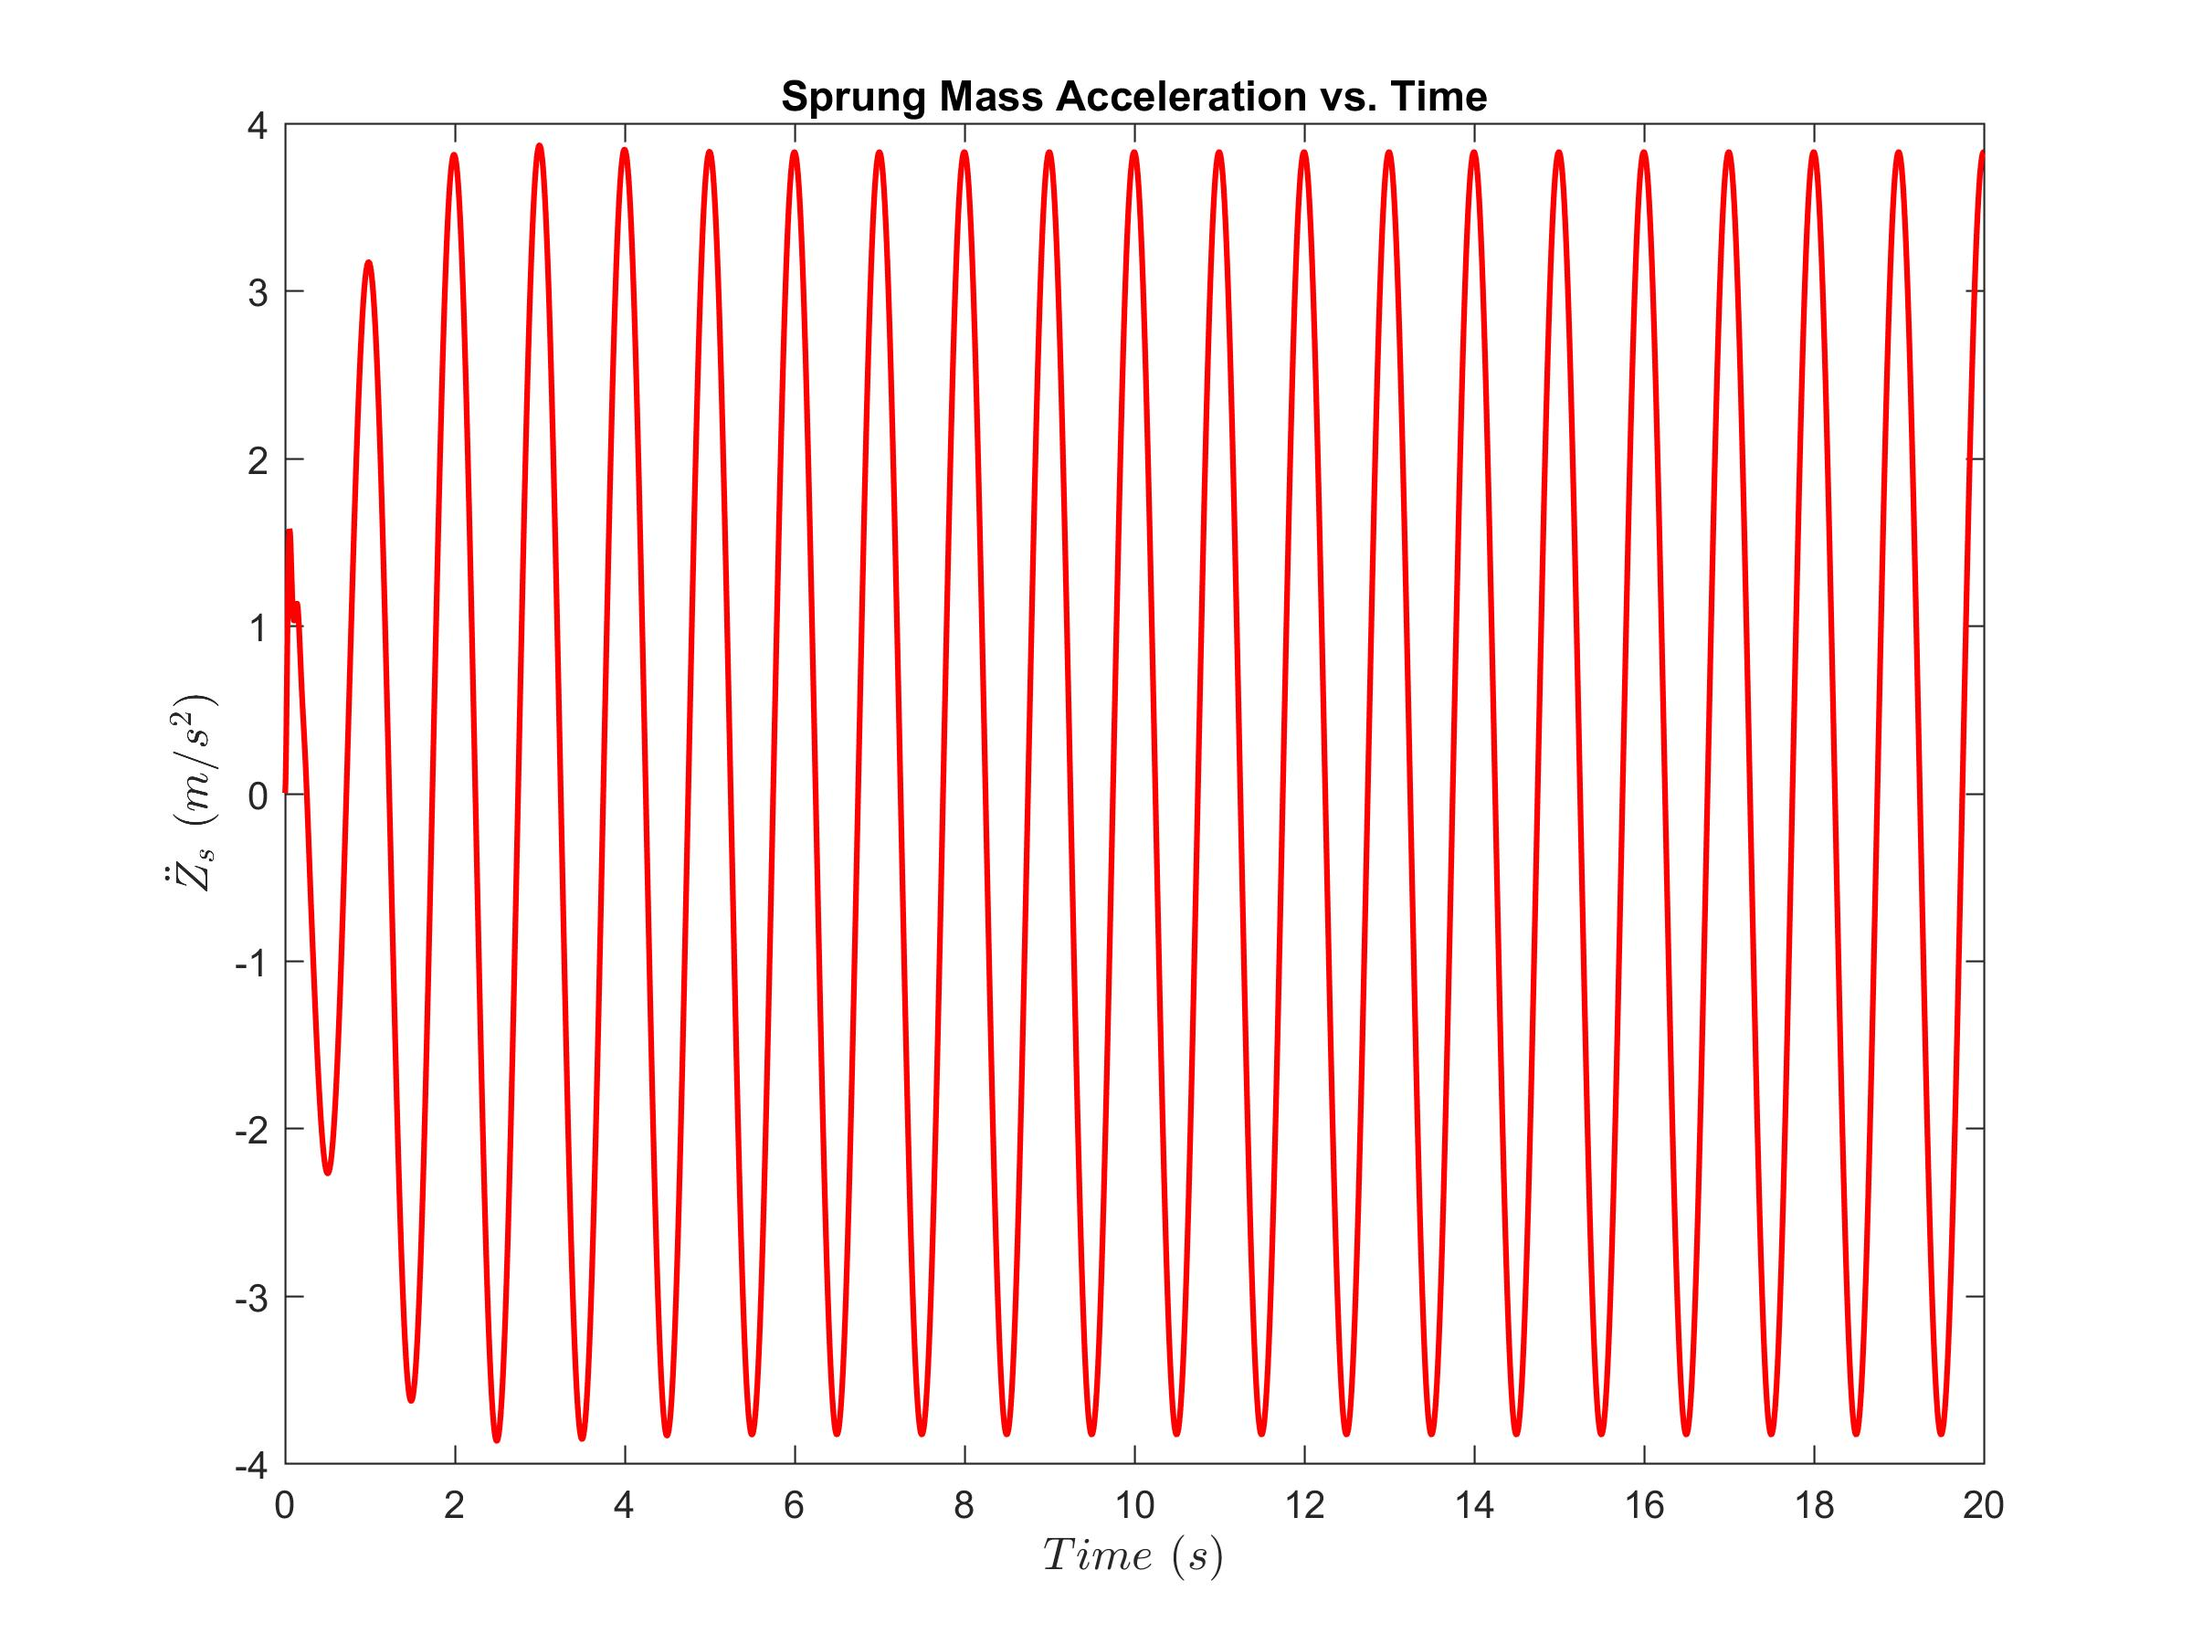
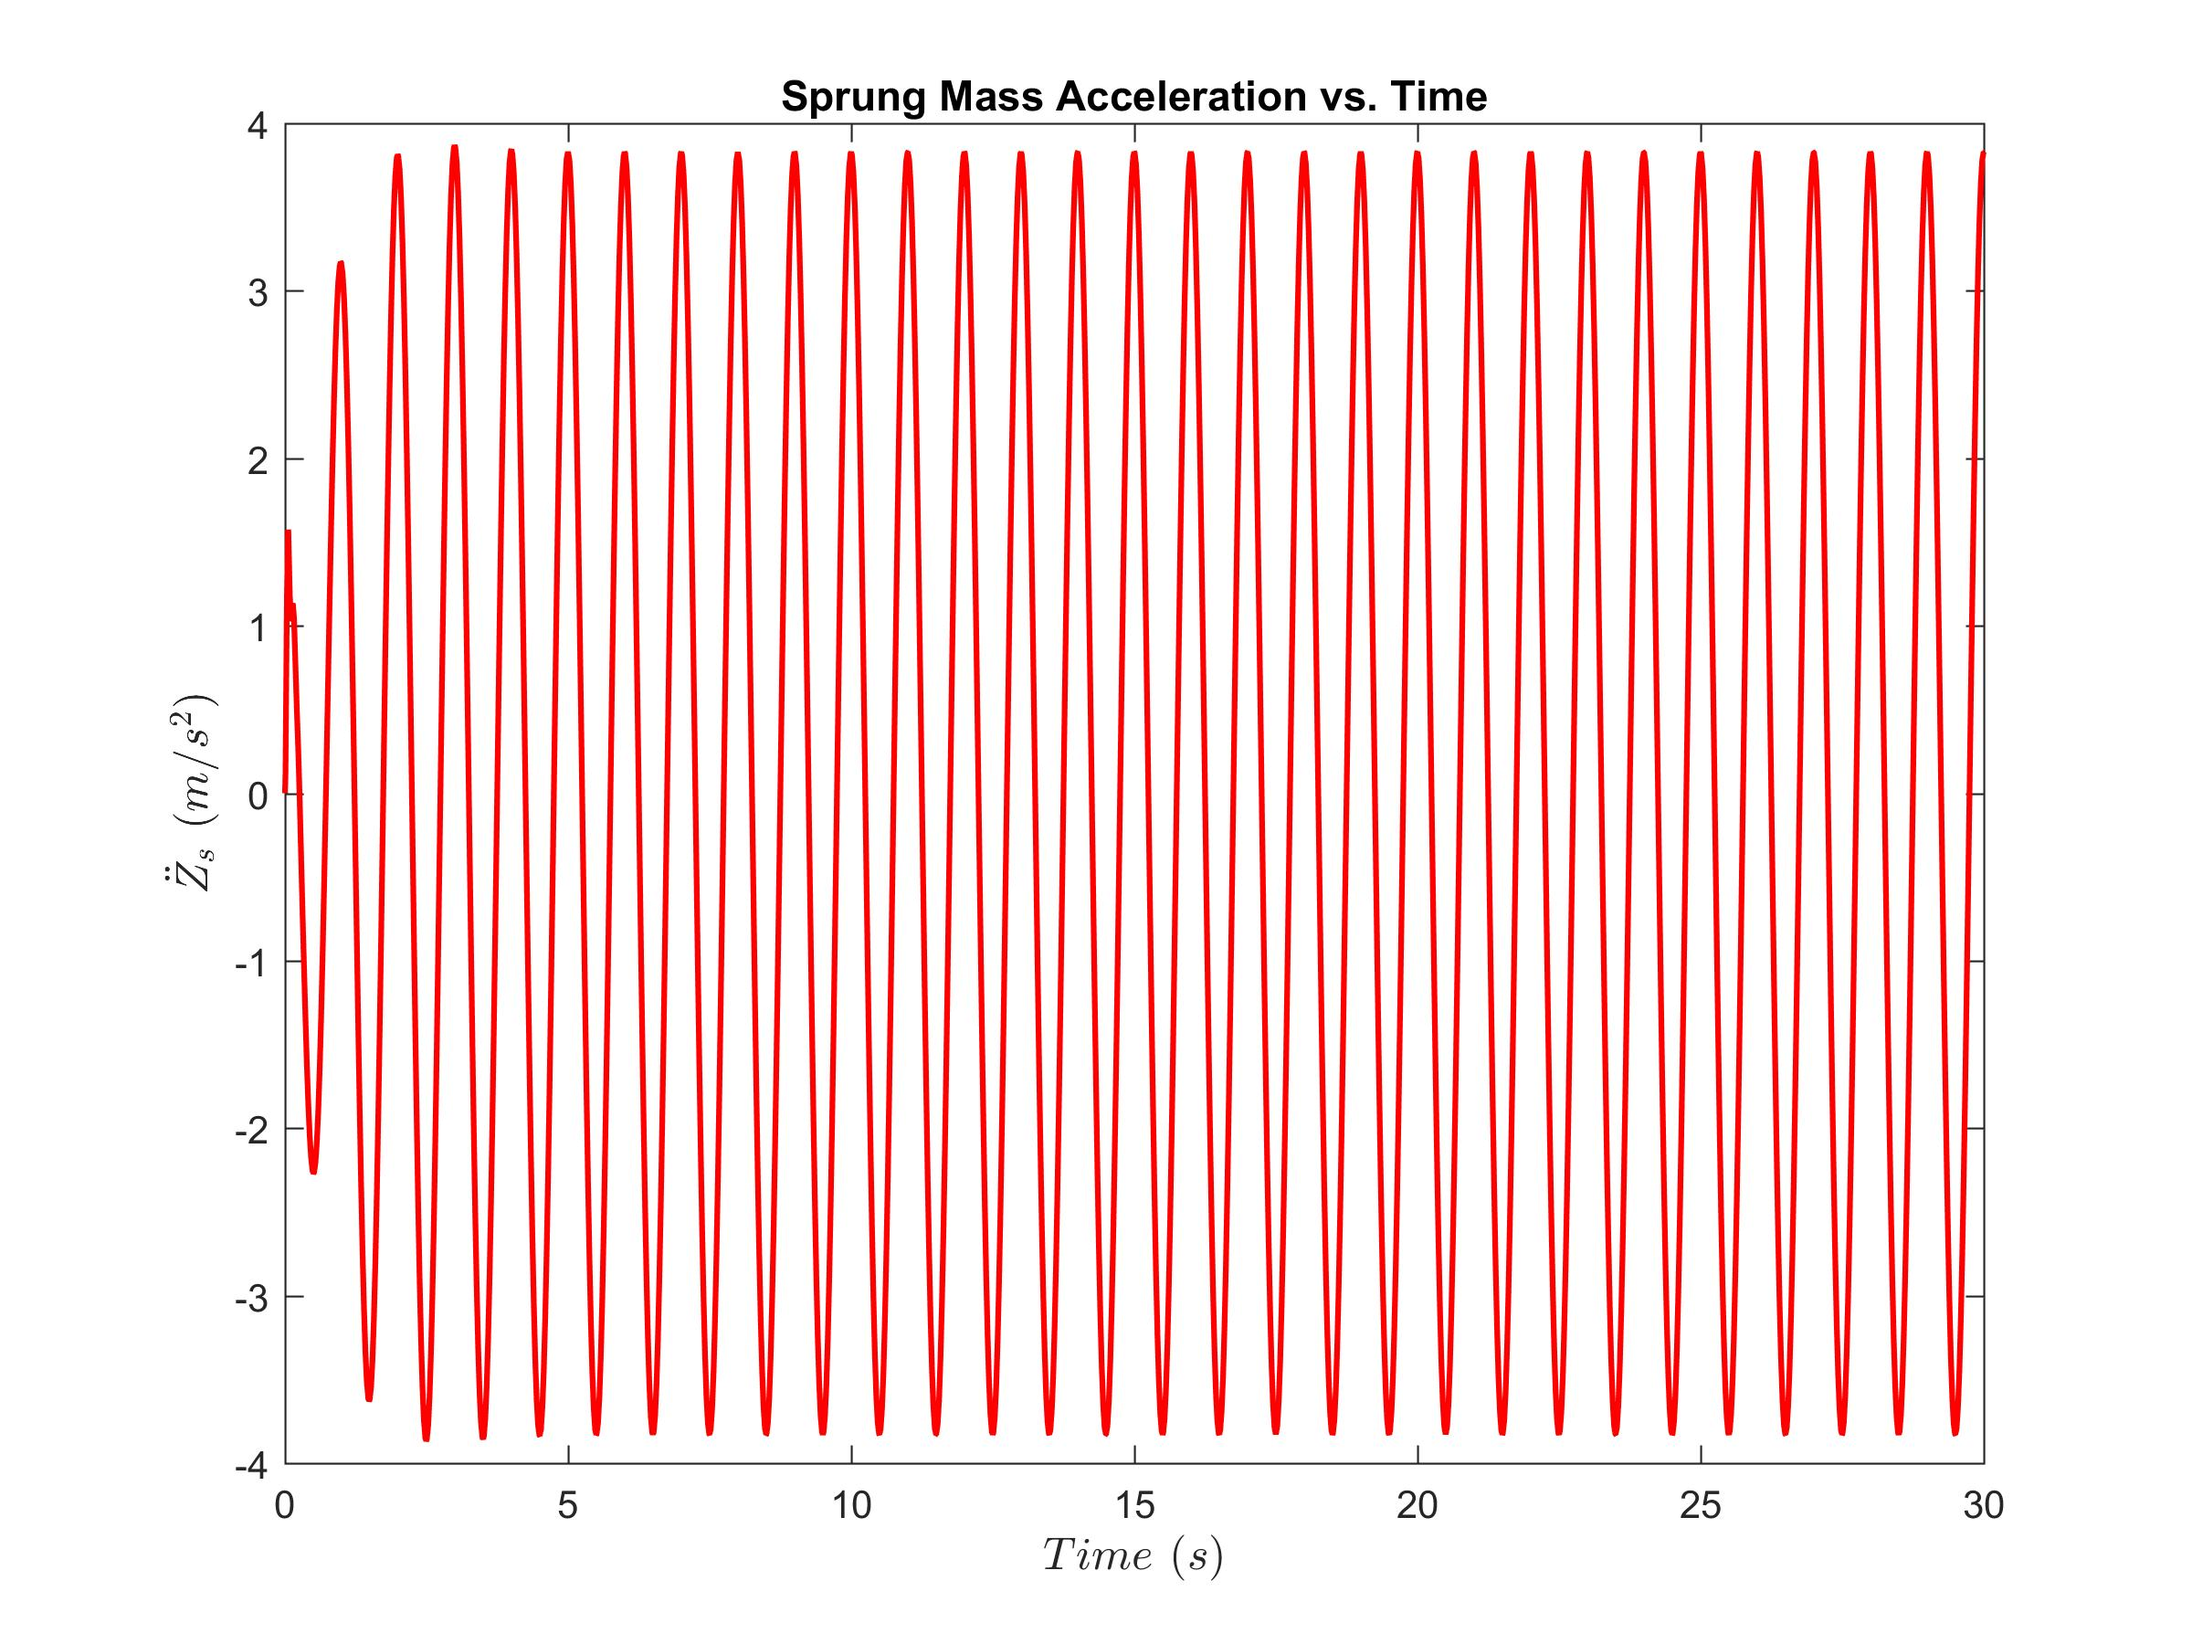
Plots changed

diff --git a/main.m b/main.m
@@ -18,8 +18,8 @@ rho4 = 0.040;
 Amp = 0.05;
 w = 1*2*pi;
 t0 = 0;
-tf = 20;
-steps = 20000;
+tf = 30;
+steps = 30000;
 
 A = [0 1 0 -1; -ks/ms -bs/ms 0 bs/ms; 0 0 0 1; ks/mu bs/mu -kt/mu -(bs+bt)/mu ];
 B = [0;1/ms;0;-1/mu];
@@ -83,7 +83,7 @@ xlabel('$Time\hspace{0.05in}(s)$','Interpreter','Latex','FontSize',12)
 ylabel('$Z_s\hspace{0.05in}(m)$','Interpreter','Latex','FontSize',12)
 legend('Response','Road Profile')
 set(legend,'Interpreter','Latex','FontSize',12)
-print('Passive-SMD-Dynamic','-djpeg','-r300')
+% print('Passive-SMD','-djpeg','-r300')
 
 fig = figure(2);
 set(fig,'Position',[1800 -320 1200 1000])
@@ -93,7 +93,7 @@ plot(T,zacclPass,'-r','LineWidth',1.5)
 title('Sprung Mass Acceleration vs. Time')
 xlabel('$Time\hspace{0.05in}(s)$','Interpreter','Latex','FontSize',12)
 ylabel('$\ddot{Z}_s\hspace{0.05in}(m/s^2)$','Interpreter','Latex','FontSize',12)
-print('Passive-SMA-Dynamic','-djpeg','-r300')
+% print('Passive-SMA','-djpeg','-r300')
 
 fig = figure(3);
 set(fig,'Position',[1800 -320 1200 1000])
@@ -103,7 +103,7 @@ plot(T,Y(:,1),'-r','LineWidth',1.5)
 title('Suspension Deflection vs. Time')
 xlabel('$Time\hspace{0.05in}(s)$','Interpreter','Latex','FontSize',12)
 ylabel('$Z_s - Z_u\hspace{0.05in}(m)$','Interpreter','Latex','FontSize',12)
-print('Passive-SD-Dynamic','-djpeg','-r300')
+% print('Passive-SD','-djpeg','-r300')
 
 fig = figure(4);
 set(fig,'Position',[1800 -320 1200 1000])
@@ -113,7 +113,7 @@ plot(T,Y(:,3),'-r','LineWidth',1.5)
 title('Tire Deflection vs. Time')
 xlabel('$Time\hspace{0.05in}(s)$','Interpreter','Latex','FontSize',12)
 ylabel('$Z_u - Z_r\hspace{0.05in}(m)$','Interpreter','Latex','FontSize',12)
-print('Passive-TD-Dynamic','-djpeg','-r300')
+% print('Passive-TD','-djpeg','-r300')
 
 %% Q3
 
@@ -176,7 +176,7 @@ xlabel('$Time\hspace{0.05in}(s)$','Interpreter','Latex','FontSize',12)
 ylabel('$Z_s\hspace{0.05in}(m)$','Interpreter','Latex','FontSize',12)
 legend('Passive','Road Profile','Active ')
 set(legend,'Interpreter','Latex','FontSize',12)
-print('Active-SMD-Dynamic','-djpeg','-r300')
+% print('Active-SMD','-djpeg','-r300')
 
 fig = figure(6);
 set(fig,'Position',[1800 -320 1200 1000])
@@ -190,7 +190,7 @@ xlabel('$Time\hspace{0.05in}(s)$','Interpreter','Latex','FontSize',12)
 ylabel('$\ddot{Z}_s\hspace{0.05in}(m/s^2)$','Interpreter','Latex','FontSize',12)
 legend('Passive','Active ')
 set(legend,'Interpreter','Latex','FontSize',12)
-print('Active-SMA-Dynamic','-djpeg','-r300')
+% print('Active-SMA','-djpeg','-r300')
 
 fig = figure(7);
 set(fig,'Position',[1800 -320 1200 1000])
@@ -204,7 +204,7 @@ xlabel('$Time\hspace{0.05in}(s)$','Interpreter','Latex','FontSize',12)
 ylabel('$Z_s - Z_u\hspace{0.05in}(m)$','Interpreter','Latex','FontSize',12)
 legend('Passive','Active ')
 set(legend,'Interpreter','Latex','FontSize',12)
-print('Active-SD-Dynamic','-djpeg','-r300')
+% print('Active-SD','-djpeg','-r300')
 
 fig = figure(8);
 set(fig,'Position',[1800 -320 1200 1000])
@@ -218,4 +218,28 @@ xlabel('$Time\hspace{0.05in}(s)$','Interpreter','Latex','FontSize',12)
 ylabel('$Z_u - Z_r\hspace{0.05in}(m)$','Interpreter','Latex','FontSize',12)
 legend('Passive','Active')
 set(legend,'Interpreter','Latex','FontSize',12)
-print('Active-TD-Dynamic','-djpeg','-r300')
+% print('Active-TD','-djpeg','-r300')
+
+%%
+
+fig = figure(9);
+set(fig,'Position',[1800 -320 1200 1000])
+clear title
+clear legend
+subplot(2,2,1)
+plot(sol.x,sol.y(5,:),'-r','LineWidth',1.5)
+xlabel('$Time\hspace{0.05in}(s)$','Interpreter','Latex','FontSize',12)
+ylabel('$\lambda_1$','Interpreter','Latex','FontSize',12)
+subplot(2,2,2)
+plot(sol.x,sol.y(6,:),'-r','LineWidth',1.5)
+xlabel('$Time\hspace{0.05in}(s)$','Interpreter','Latex','FontSize',12)
+ylabel('$\lambda_2$','Interpreter','Latex','FontSize',12)
+subplot(2,2,3)
+plot(sol.x,sol.y(7,:),'-r','LineWidth',1.5)
+xlabel('$Time\hspace{0.05in}(s)$','Interpreter','Latex','FontSize',12)
+ylabel('$\lambda_3$','Interpreter','Latex','FontSize',12)
+subplot(2,2,4)
+plot(sol.x,sol.y(8,:),'-r','LineWidth',1.5)
+xlabel('$Time\hspace{0.05in}(s)$','Interpreter','Latex','FontSize',12)
+ylabel('$\lambda_4$','Interpreter','Latex','FontSize',12)
+print('Active-TD-Dynamic-Costates','-djpeg','-r300')

diff --git a/first.m b/first.m
@@ -1,6 +1,9 @@
-syms ks ms bs ms bs bt 
-A = [0 1 0 -1; -ks/ms -bs/ms 0 bs/ms; 0 0 0 1; ks/mu bs/mu -kt/mu -(bs + bt)/mu ];
-B = [0;1/ms;0;-1/mu];
-L = [0;0;-1;0];
-C = [1 0 -1 0;0 1 0 0];
-simplify(eig(A))
+clear
+clc
+
+syms ks ms bs ms bs bt kt mu
+A = [0 1 0 -1; -ks/ms -bs/ms 0 bs/ms; 0 0 0 1; ks/mu bs/mu -kt/mu -(bs)/mu ];
+% B = [0;1/ms;0;-1/mu];
+% L = [0;0;-1;0];
+% C = [1 0 -1 0;0 1 0 0];
+charpoly(A)
